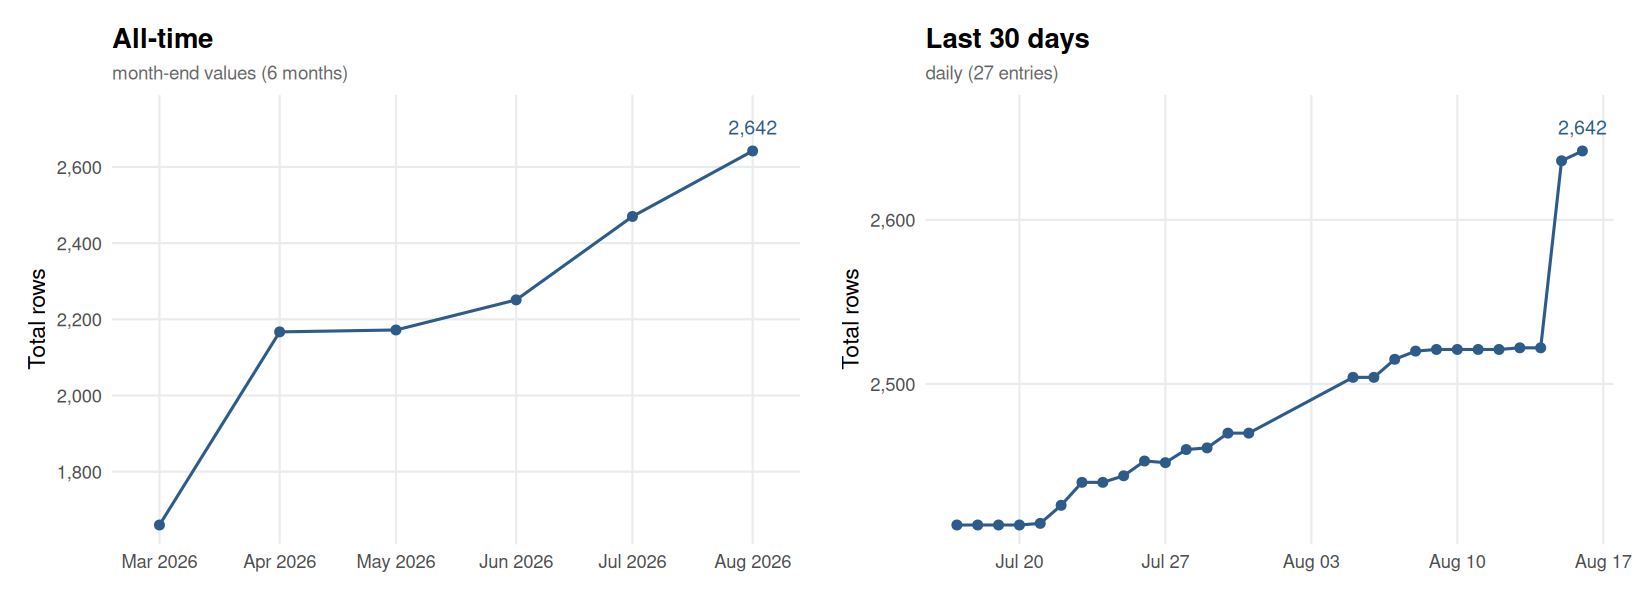
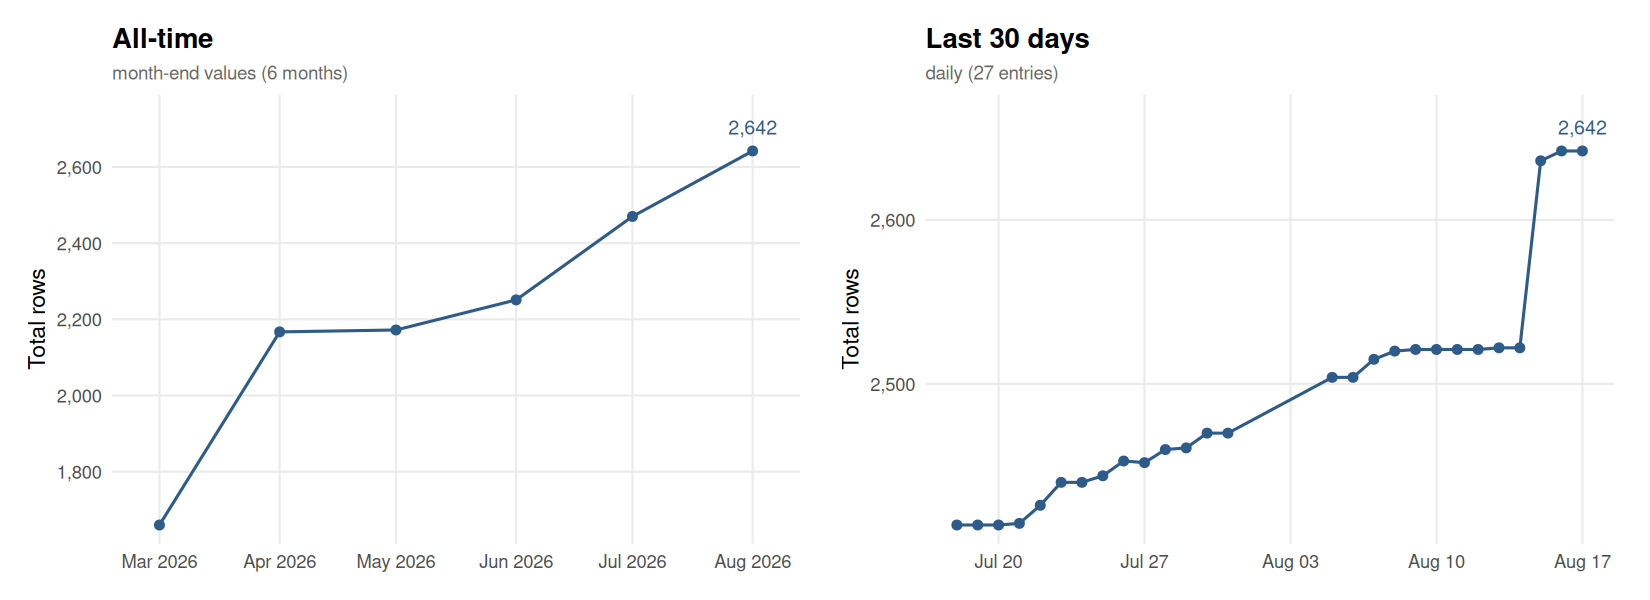
Update flora.csv [automated]

diff --git a/README.md b/README.md
@@ -438,14 +438,15 @@ For API issues:
 This chart is automatically updated after each pipeline run, showing the size of `output/flora.csv` over time.
 
 <!-- FLORA_UPDATE_LOG_START -->
-> **Latest (2026-08-16):** Total = 2,642 | Replications = 2,512 | Reproductions = 130
+> **Latest (2026-08-17):** Total = 2,642 | Replications = 2,512 | Reproductions = 130
 
 ![FLoRA dataset size over time](output/flora_history.png)
 
-<details><summary>Full history (146 entries)</summary>
+<details><summary>Full history (147 entries)</summary>
 
 | Date | Total | Replications | Reproductions |
 |------|------:|-------------:|--------------:|
+| 2026-08-17 | 2642 | 2512 | 130 |
 | 2026-08-16 | 2642 | 2512 | 130 |
 | 2026-08-15 | 2636 | 2507 | 129 |
 | 2026-08-14 | 2522 | 2503 | 19 |
